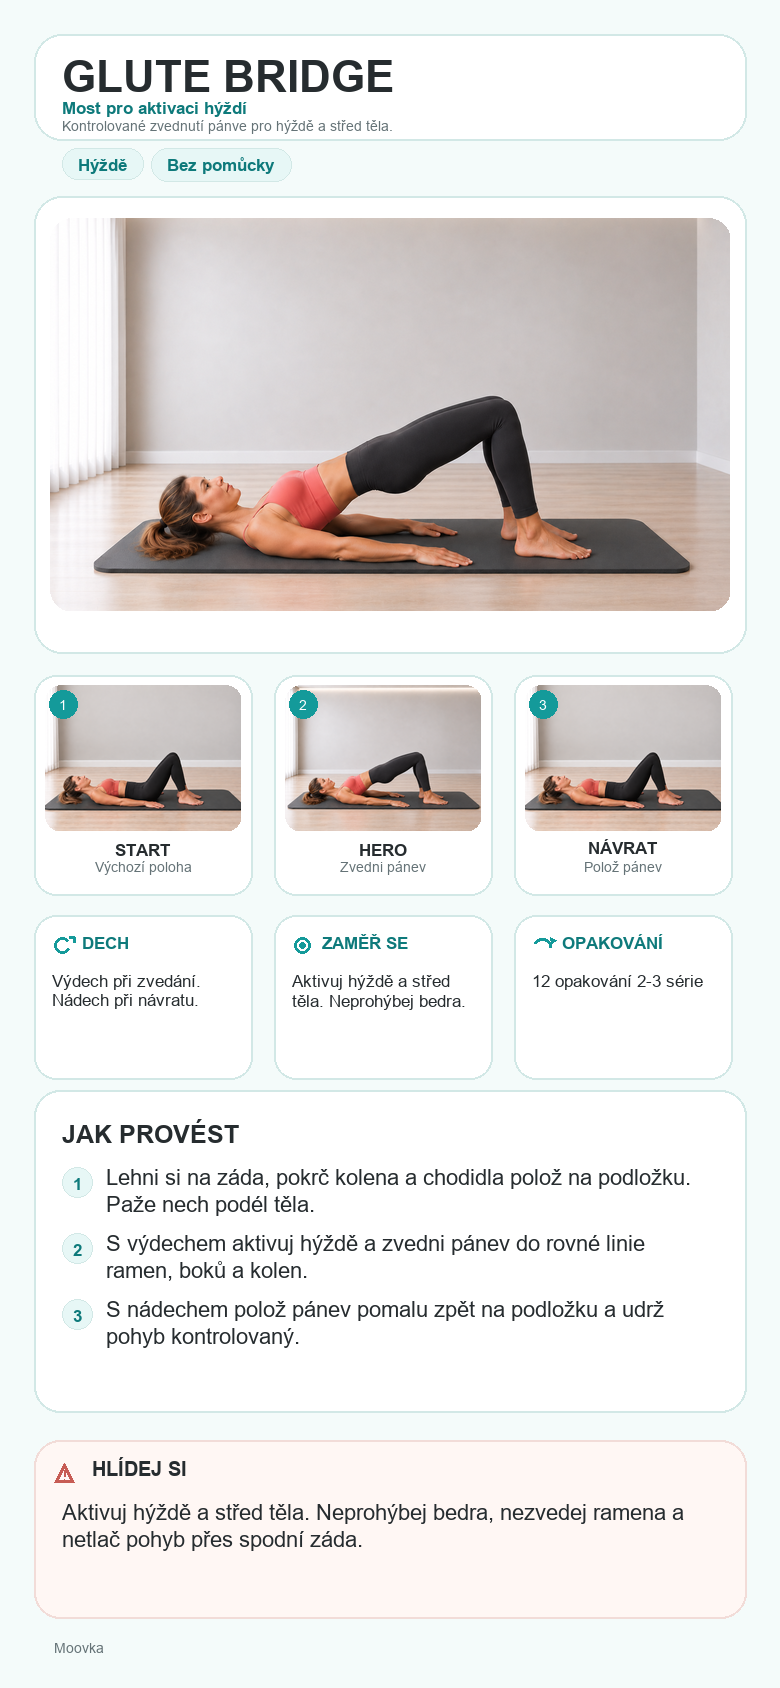
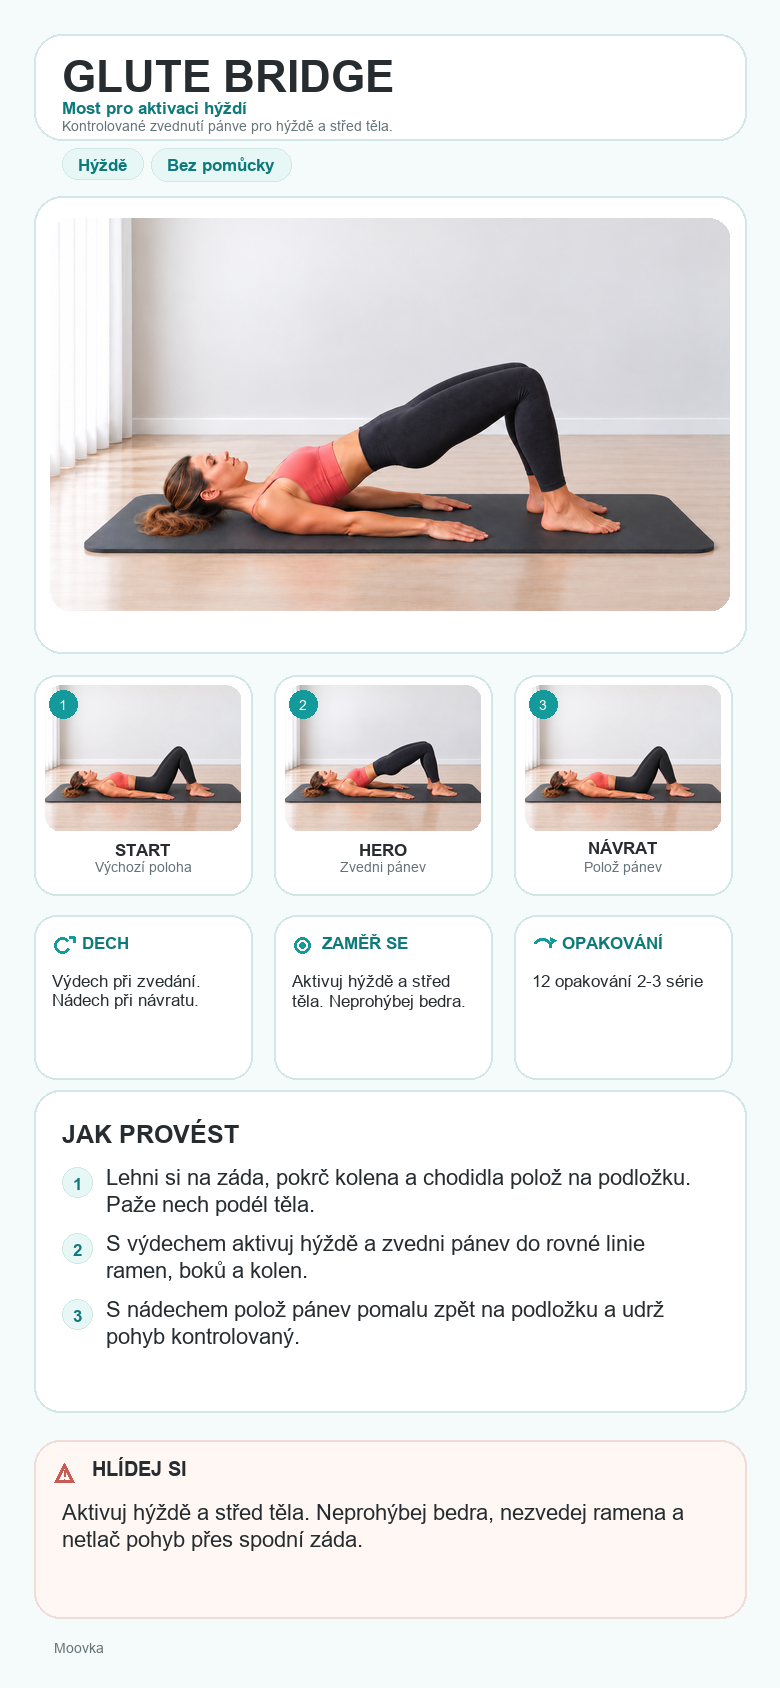
Update Glute Bridge final assets

diff --git a/app.js b/app.js
@@ -1,6 +1,6 @@
 (function(){
 const app=document.getElementById('app'),data=window.PB40_DATA;
-const APP_VERSION='v59.158-dev';
+const APP_VERSION='v59.159-dev';
 const versionEl=document.getElementById('app-version');
 const brandBadge=document.querySelector('.brandBadge');
 const primaryNav=document.querySelector('body > nav');
@@ -757,11 +757,11 @@ const exerciseDetailExhale=Object.freeze({
 const gluteBridgeMarchFlow=Object.freeze(['start','mid','hero','mid','start']);
 const referenceExerciseAssets={
   hip:{
-    start:'Pilates%20Assets/02_Exercise_Cards/Hollow%20Hold/hollow_hold_start_v05_approved.png',
-    hero:'Pilates%20Assets/02_Exercise_Cards/Glute%20Bridge/glute_bridge_hero_v03_approved.png',
-    end:'Pilates%20Assets/02_Exercise_Cards/Hollow%20Hold/hollow_hold_start_v05_approved.png',
-    guideCard:'Pilates%20Assets/02_Exercise_Cards/Glute%20Bridge/glute_bridge_guide_card_v3.png',
-    stepByStep:'Pilates%20Assets/02_Exercise_Cards/Glute%20Bridge/glute_bridge_step_by_step_v2.png',
+    start:'Pilates%20Assets/02_Exercise_Cards/Glute%20Bridge/glute_bridge_start.png',
+    hero:'Pilates%20Assets/02_Exercise_Cards/Glute%20Bridge/glute_bridge_hero.png',
+    end:'Pilates%20Assets/02_Exercise_Cards/Glute%20Bridge/glute_bridge_start.png',
+    guideCard:'Pilates%20Assets/02_Exercise_Cards/Glute%20Bridge/glute_bridge_guide_card_v3.png?v=59160glutefinal',
+    stepByStep:'Pilates%20Assets/02_Exercise_Cards/Glute%20Bridge/glute_bridge_step_by_step_v2.png?v=59160glutefinal',
     anatomy:{src:'Pilates%20Assets/02_Exercise_Cards/Glute%20Bridge/glute_bridge_muscles_v01.png',alt:'Hýžďové svaly',label:'Hýžďové svaly'},
     guide:{
       breath:['Výdech při zvedání.','Nádech při návratu.'],
@@ -2422,7 +2422,7 @@ function programInfo(){
   </section>
   <section class="aboutProgramSection"><h2>Co tě čeká</h2>
     <div class="aboutFocusList">
-      <article><img src="Pilates%20Assets/02_Exercise_Cards/Glute%20Bridge/glute_bridge_hero_v02_approved.png" alt="Glute Bridge"><div><span class="aboutFocusAccent">${lineIcon('glutes')}</span><h3>Hýždě + zadní stehna</h3><p>Síla a zpevnění spodní části těla.</p></div></article>
+      <article><img src="Pilates%20Assets/02_Exercise_Cards/Glute%20Bridge/glute_bridge_hero.png" alt="Glute Bridge"><div><span class="aboutFocusAccent">${lineIcon('glutes')}</span><h3>Hýždě + zadní stehna</h3><p>Síla a zpevnění spodní části těla.</p></div></article>
       <article><img src="Pilates%20Assets/02_Exercise_Cards/Russian%20Twist/russian_twist_hero_v01.png" alt="Russian Twist"><div><span class="aboutFocusAccent">${lineIcon('core')}</span><h3>Břicho + pas</h3><p>Stabilní střed těla.</p></div></article>
       <article><img src="Pilates%20Assets/02_Exercise_Cards/Mermaid%20Stretch/mermaid_stretch_hero_v01.png" alt="Mermaid"><div><span class="aboutFocusAccent">${lineIcon('mobility')}</span><h3>Mobilita + celé tělo</h3><p>Záda, ramena a pohyblivost.</p></div></article>
     </div>

diff --git a/index.html b/index.html
@@ -35,6 +35,6 @@
 })();
 </script>
 <script src="data.js?v=59157unifiedcards"></script>
-<script src="app.js?v=59159moovkafooter"></script>
+<script src="app.js?v=59160glutefinal"></script>
 </body>
 </html>

diff --git a/Pilates Assets/02_Exercise_Cards/Glute Bridge/build_glute_bridge_cards.py b/Pilates Assets/02_Exercise_Cards/Glute Bridge/build_glute_bridge_cards.py
@@ -6,13 +6,13 @@ from PIL import Image, ImageDraw, ImageFont, ImageOps
 
 
 BASE = Path(__file__).resolve().parent
-START = BASE.parent / "Hollow Hold" / "hollow_hold_start_v05_approved.png"
-HERO = BASE / "glute_bridge_hero_v03_approved.png"
+START = BASE / "glute_bridge_start.png"
+HERO = BASE / "glute_bridge_hero.png"
 GUIDE = BASE / "glute_bridge_guide_card_v3.png"
 STEP = BASE / "glute_bridge_step_by_step_v2.png"
 EXPECTED_HASHES = {
[4 lines of base64/hex data omitted]
 }
 
 BG = (244, 251, 250)

diff --git a/00_CHATGPT_START/MASTER/01_DOCUMENTS/EXERCISE_PROGRESS.md b/00_CHATGPT_START/MASTER/01_DOCUMENTS/EXERCISE_PROGRESS.md
@@ -68,7 +68,7 @@ Programové zařazení: Side Kick je použit ve dnech 18 a 25; Child's Pose je p
 | Fire Hydrant | ❌ | ✅ | ✅ | ✅ | ✅ | ✅ | ✅ | ✅ | ✅ | HOTOVO | EXERCISE_REFERENCE není uložená v MASTER balíčku |
 | Forearm Plank | ❌ | ✅ | ✅ | ✅ | ✅ | ✅ | ✅ | ✅ | ✅ | HOTOVO | Statický časový cvik; START/HERO/END používají stejný schválený source bez samostatného HERO/END PNG; Guide Card a Step by Step v01 manuálně schválené; App nasazena jako `plank` |
 | Frog Pumps | ❌ | ✅ | ✅ | ✅ | ✅ | ✅ | ✅ | ✅ | ✅ | HOTOVO | START/HERO v03 ručně schválené; END = START v03 bez samostatného PNG; Guide Card a Step by Step v01 přegenerované ze SOURCE v03; App nasazena pod kanonickým ID `frog` |
-| Glute Bridge | ❌ | ✅ | ✅ | ✅ | ✅ | ✅ | ✅ | ✅ | ✅ | HOTOVO | START je přesný reuse Hollow Hold START v05 `0264a431…`; HERO v03 `_approved` `aeaaa7d2…`; END = START; fotografie v Guide v3 a Step v2 aktualizovány bez změny textů/layoutu; svalová karta `glute_bridge_muscles_v01.png`; app mapování pod ID `hip` aktualizováno |
+| Glute Bridge | ❌ | ✅ | ✅ | ✅ | ✅ | ✅ | ✅ | ✅ | ✅ | HOTOVO | Finální SOURCE bez verzovacího čísla: `glute_bridge_start.png` `d3df1aee…` + `glute_bridge_hero.png` `055f549c…`; END = START; Guide v3 a Step v2 aktualizovány bez změny textů/layoutu; svalová karta `glute_bridge_muscles_v01.png`; app mapování pod ID `hip` aktualizováno |
 | Glute Bridge March | ❌ | ✅ | ✅ | ✅ | ✅ | ✅ | ✅ | ✅ | ✅ | HOTOVO | START reuse Glute Bridge START `80c3…`; MID reuse Glute Bridge HERO `961e…`; HERO v01 `_approved` `6014…`; START → MID → HERO → MID → START; Guide/Step v02 přegenerované a nasazené pod ID `glute_bridge_march` |
 | Hamstring Stretch | ❌ | ✅ | ✅ | ✅ | ✅ | ✅ | ✅ | ✅ | ✅ | HOTOVO | START/HERO v01 schválené; END = START bez samostatného PNG; Guide Card a Step by Step v01 manuálně schválené; Export a QA schválené; App nasazena jako `hamstring_supine`; bez pomůcky |
 | Heel Taps | ❌ | ✅ | ✅ | ✅ | ✅ | ✅ | ✅ | ✅ | ✅ | HOTOVO | START/HERO v03 `_approved` ověřeny přesnými SHA-256; END = START; Guide/Step v01 přegenerované, vizuálně ověřené a nasazené pod ID `heeltaps` |

diff --git a/Pilates Assets/02_Exercise_Cards/Glute Bridge/README.md b/Pilates Assets/02_Exercise_Cards/Glute Bridge/README.md
@@ -22,17 +22,17 @@ START → HERO → START
 - modelka a prostredi podle MODEL_MASTER
 - nove assety vznikaji pouze v Pilates Assets
 - assets/exercises se zatim nemeni
-- aktuální schválený SOURCE: reuse `../Hollow Hold/hollow_hold_start_v05_approved.png` + `glute_bridge_hero_v03_approved.png`
-- END = přesně reuse START v05
+- aktuální schválený SOURCE: `glute_bridge_start.png` + `glute_bridge_hero.png`
+- END = přesně `glute_bridge_start.png`
 - Guide Card created: glute_bridge_guide_card_v1.png
 - Guide Card approval pending
 - Guide Card v2 created: glute_bridge_guide_card_v2.png
 - Guide Card v2 approval pending
 - Guide Card v3 created: glute_bridge_guide_card_v3.png
-- Guide Card v3 approved as official Guide Card Template v1.0; fotografie aktualizovány na reuse START v05 + HERO v03 bez změny layoutu a textů
+- Guide Card v3 approved as official Guide Card Template v1.0; fotografie aktualizovány na finální START/HERO bez verzovacího čísla a bez změny layoutu nebo textů
 - Step by Step v1 created: glute_bridge_step_by_step_v1.png
 - Step by Step v1 approval pending
 - Step by Step v2 created: glute_bridge_step_by_step_v2.png
-- Step by Step v2 approved as official Step by Step Template v2.0; fotografie aktualizovány na reuse START v05 + HERO v03 bez změny layoutu a textů
+- Step by Step v2 approved as official Step by Step Template v2.0; fotografie aktualizovány na finální START/HERO bez verzovacího čísla a bez změny layoutu nebo textů
 - Svalová karta: `glute_bridge_muscles_v01.png`, zezadu zvýrazněné hýžďové svaly podle Moovka MASTER BODY standardu
 - Reference Exercise 001: Glute Bridge

diff --git a/Pilates Assets/02_Exercise_Cards/Glute Bridge/STATUS.md b/Pilates Assets/02_Exercise_Cards/Glute Bridge/STATUS.md
@@ -4,10 +4,10 @@ Status: 🟢 COMPLETE / APP AKTUALIZOVÁNA
 
 ## Photos
 
-- [x] START: reuse `../Hollow Hold/hollow_hold_start_v05_approved.png`
[1 lines of base64/hex data omitted]
-- [x] HERO: `glute_bridge_hero_v03_approved.png`
[1 lines of base64/hex data omitted]
+- [x] START: `glute_bridge_start.png`
[1 lines of base64/hex data omitted]
+- [x] HERO: `glute_bridge_hero.png`
[1 lines of base64/hex data omitted]
 - [x] END = přesně START, bez samostatného PNG
 
 ## Workflow
@@ -17,12 +17,12 @@ START → HERO → START
 ## Guide Card
 
 - [x] `glute_bridge_guide_card_v3.png` — 780 × 1688 RGB
[2 lines of base64/hex data omitted]
 
 ## Step by Step
 
 - [x] `glute_bridge_step_by_step_v2.png` — 780 × 2280 RGB
[2 lines of base64/hex data omitted]
 
 ## Muscle Card
 
